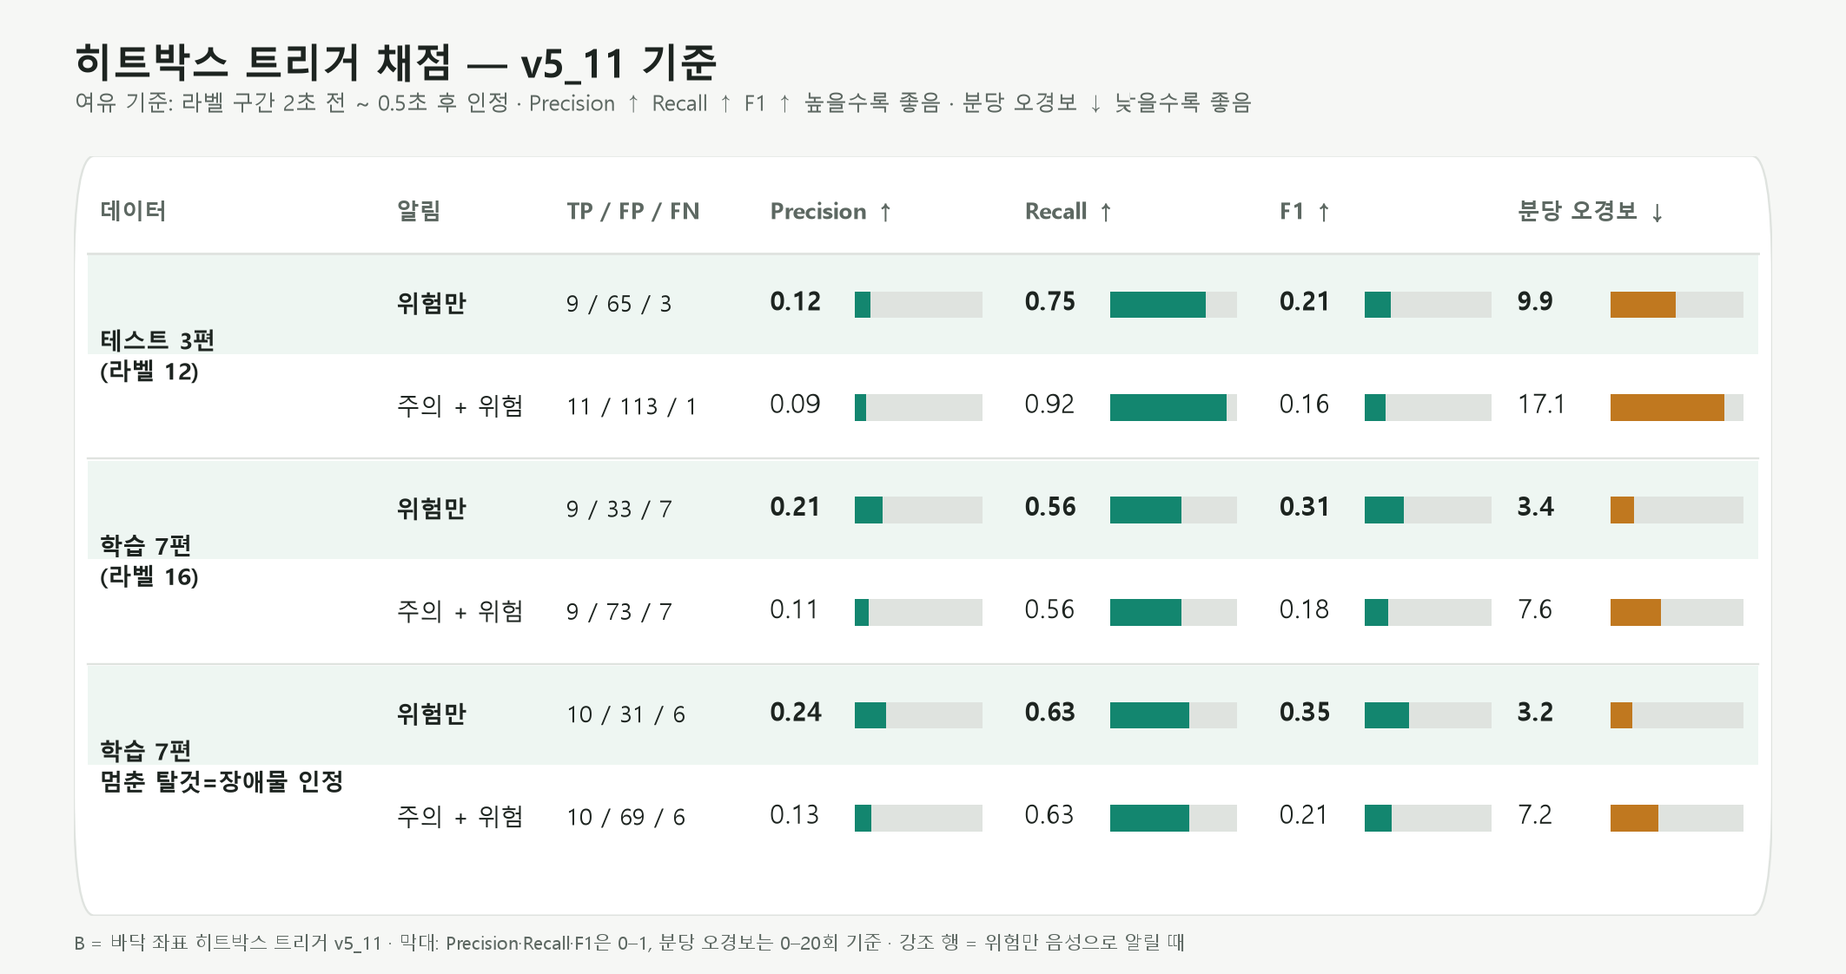
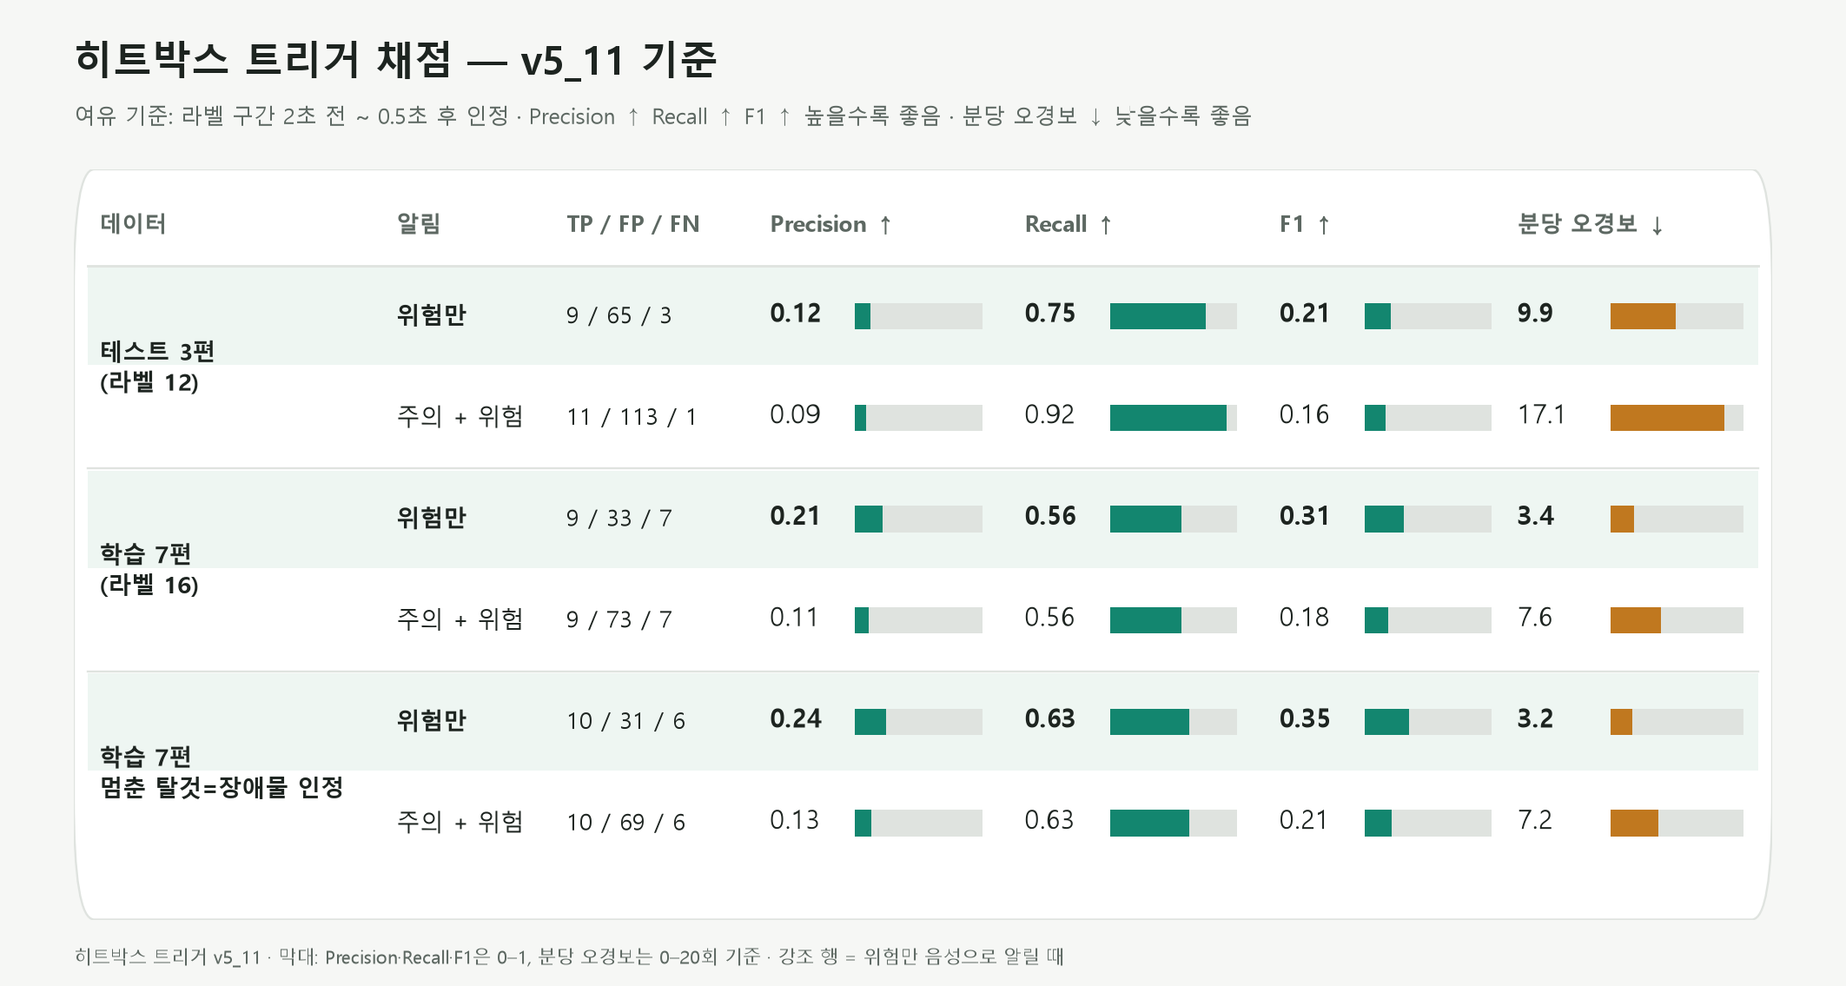
7주차: v5_10 기준 채점·속도표, v5_9–v5_11 비교 이미지 추가, 버전별 트리거 처리 시간 반영

diff --git a/trigger_hitbox/code/make_figs.py b/trigger_hitbox/code/make_figs.py
@@ -1,4 +1,7 @@
-"""v5_11 기준 표 이미지 2장: ① Precision · Recall · 분당 오경보 (태규 B0 제외) ② GPU 단독 vs CPU+GPU 모듈별 시간."""
+"""버전별 표 이미지: 채점표(v5_10 · v5_11) · GPU/CPU 속도표(v5_10 · v5_11) · v5_9–v5_11 비교표.
+값은 서버 실행 출력과 eval JSON에서 옮김 (태규 B0 제외)."""
+import os
+
 import matplotlib
 matplotlib.use("Agg")
 import matplotlib.pyplot as plt
@@ -8,129 +11,225 @@ from matplotlib.patches import FancyBboxPatch, Rectangle
 font_manager.fontManager.addfont("C:/Windows/Fonts/malgun.ttf")
 font_manager.fontManager.addfont("C:/Windows/Fonts/malgunbd.ttf")
 plt.rcParams["font.family"] = "Malgun Gothic"
-
-INK, MUTED, LINE, BG, PANEL = "#1d2420", "#5d6862", "#dfe3df", "#f6f7f5", "#ffffff"
-GPU, CPU, ACC_SOFT, HL = "#13866f", "#c0781f", "#e3efe9", "#eef6f2"
+INK, MUTED, LINE, BG, PANEL, HL = "#1d2420", "#5d6862", "#dfe3df", "#f6f7f5", "#ffffff", "#eef6f2"
+GPU, CPU, NEU = "#13866f", "#c0781f", "#8fa39b"
 OUT = "C:/Users/windo/Documents/trigger_proto/out/figs"
-import os
 os.makedirs(OUT, exist_ok=True)
+
+# 채점 (여유 기준): (TP/FP/FN, P, R, F1, 분당 오경보)
+SCORE = {
+    "v5_9": {"test": {"Bd": ("10 / 54 / 2", .156, .833, .263, 8.19), "B": ("11 / 96 / 1", .103, .917, .185, 14.55)},
+             "train": {"Bd": ("7 / 29 / 9", .194, .438, .269, 3.02), "B": ("7 / 65 / 9", .097, .438, .159, 6.77)}},
+    "v5_10": {"test": {"Bd": ("9 / 70 / 3", .114, .750, .198, 10.61), "B": ("10 / 124 / 2", .075, .833, .137, 18.80)},
+              "train": {"Bd": ("9 / 39 / 7", .188, .562, .281, 4.06), "B": ("10 / 81 / 6", .110, .625, .187, 8.44)}},
+    "v5_11": {"test": {"Bd": ("9 / 65 / 3", .122, .750, .209, 9.85), "B": ("11 / 113 / 1", .089, .917, .162, 17.13)},
+              "train": {"Bd": ("9 / 33 / 7", .214, .562, .310, 3.44), "B": ("9 / 73 / 7", .110, .562, .184, 7.60)},
+              "train_loose": {"Bd": ("10 / 31 / 6", .244, .625, .351, 3.23), "B": ("10 / 69 / 6", .127, .625, .211, 7.19)}},
+}
+TRIG = {"v5_9": (7.3, "측정 · test 1–3 평균"), "v5_10": (8.3, "측정 · test_2"), "v5_11": (8.3, "v5_10과 같은 로직 · 추정")}
+LEAD = {"v5_9": (-0.83, -1.40), "v5_10": (-0.53, 0.00), "v5_11": (-0.81, -1.13)}   # 위험만, 라벨 시작 − 첫 트리거 (s)
+BASE_GPU = 3.0 + 13.4 + 43.0 + 1.5 + 10.8     # 트리거 제외 (GPU 단독)
+BASE_CPU = 3.0 + 39.7 + 43.0 + 1.6 + 10.8     # 트리거 제외 (나눠 쓰기)
+
+
+def fr(v):
+    return f"{v + 1e-9:.1f}"
 
 
 def header(fig, title, sub):
-    fig.text(0.04, 0.955, title, fontsize=19, fontweight="bold", color=INK, va="top")
-    fig.text(0.04, 0.905, sub, fontsize=10.5, color=MUTED, va="top")
+    h = fig.get_figheight()             # 그림 높이와 상관없이 위에서 같은 거리 (인치)
+    fig.text(0.04, 1 - 0.28 / h, title, fontsize=19, fontweight="bold", color=INK, va="top")
+    fig.text(0.04, 1 - 0.72 / h, sub, fontsize=10.5, color=MUTED, va="top")
 
 
-# ---------------- ① 채점 표 ----------------
-rows = [  # (데이터, 알림, TP/FP/FN, P, R, F1, 분당 오경보, 강조)
-    ("테스트 3편\n(라벨 12)", "위험만", "9 / 65 / 3", 0.122, 0.750, 0.209, 9.85, True),
-    ("", "주의 + 위험", "11 / 113 / 1", 0.089, 0.917, 0.162, 17.13, False),
-    ("학습 7편\n(라벨 16)", "위험만", "9 / 33 / 7", 0.214, 0.562, 0.310, 3.44, True),
-    ("", "주의 + 위험", "9 / 73 / 7", 0.110, 0.562, 0.184, 7.60, False),
-    ("학습 7편\n멈춘 탈것=장애물 인정", "위험만", "10 / 31 / 6", 0.244, 0.625, 0.351, 3.23, True),
-    ("", "주의 + 위험", "10 / 69 / 6", 0.127, 0.625, 0.211, 7.19, False),
-]
-fig = plt.figure(figsize=(12.5, 6.6), dpi=170, facecolor=BG)
-header(fig, "히트박스 트리거 채점 — v5_11 기준",
-       "여유 기준: 라벨 구간 2초 전 ~ 0.5초 후 인정 · Precision ↑ Recall ↑ F1 ↑ 높을수록 좋음 · 분당 오경보 ↓ 낮을수록 좋음")
-ax = fig.add_axes([0.04, 0.06, 0.92, 0.78]); ax.set_xlim(0, 100); ax.set_ylim(0, len(rows) + 1.4); ax.axis("off")
-ax.add_patch(FancyBboxPatch((0, 0), 100, len(rows) + 1.4, boxstyle="round,pad=0,rounding_size=1.2", fc=PANEL, ec=LINE, lw=1))
-cols = [(1.5, "데이터"), (19, "알림"), (29, "TP / FP / FN"), (41, "Precision ↑"), (56, "Recall ↑"), (71, "F1 ↑"), (85, "분당 오경보 ↓")]
-ytop = len(rows) + 0.85
-for x, c in cols:
-    ax.text(x, ytop, c, fontsize=11, color=MUTED, va="center", fontweight="bold")
-ax.plot([0.8, 99.2], [ytop - 0.4] * 2, color=LINE, lw=1.2)
+def panel(fig, rect, h):
+    ax = fig.add_axes(rect); ax.set_xlim(0, 100); ax.set_ylim(0, h); ax.axis("off")
+    ax.add_patch(FancyBboxPatch((0, 0), 100, h, boxstyle="round,pad=0,rounding_size=1.2", fc=PANEL, ec=LINE, lw=1))
+    return ax
 
 
-def bar(x, y, v, vmax, w, color):
+def hbar(ax, x, y, v, vmax, w, color):
     ax.add_patch(Rectangle((x, y - 0.13), w, 0.26, fc=LINE, ec="none"))
-    ax.add_patch(Rectangle((x, y - 0.13), w * v / vmax, 0.26, fc=color, ec="none"))
+    ax.add_patch(Rectangle((x, y - 0.13), w * min(v, vmax) / vmax, 0.26, fc=color, ec="none"))
 
 
-for i, (d, a, n, p, r, f1, fpm, hl) in enumerate(rows):
-    y = len(rows) - i - 0.05
-    if hl:
-        ax.add_patch(Rectangle((0.8, y - 0.48), 98.4, 0.96, fc=HL, ec="none"))
-    if d:
-        ax.text(1.5, y - 0.5, d, fontsize=11.5, color=INK, va="center", fontweight="bold", linespacing=1.3)
-        if i:
-            ax.plot([0.8, 99.2], [y + 0.5] * 2, color=LINE, lw=1)
-    ax.text(19, y, a, fontsize=11.5, color=INK, va="center", fontweight="bold" if hl else "normal")
-    ax.text(29, y, n, fontsize=11.5, color=INK, va="center")
-    for x, v in ((41, p), (56, r), (71, f1)):
-        ax.text(x, y + 0.02, f"{v + 1e-9:.2f}", fontsize=12.5, color=INK, va="center", fontweight="bold" if hl else "normal")
-        bar(x + 5.0, y, v, 1.0, 7.5, GPU)
-    ax.text(85, y + 0.02, f"{fpm + 1e-9:.1f}", fontsize=12.5, color=INK, va="center", fontweight="bold" if hl else "normal")
-    bar(90.5, y, fpm, 20, 7.8, CPU)
-fig.text(0.04, 0.025, "B = 바닥 좌표 히트박스 트리거 v5_11 · 막대: Precision·Recall·F1은 0–1, 분당 오경보는 0–20회 기준 · 강조 행 = 위험만 음성으로 알릴 때",
-         fontsize=9, color=MUTED)
-fig.savefig(f"{OUT}/v5_11_채점표.png", facecolor=BG)
-plt.close(fig)
-
-# ---------------- ② GPU 단독 vs CPU+GPU ----------------
-frame = [  # 모듈, (GPU 단독 곳, ms), (나눠 쓰기 곳, ms)
-    ("프레임 읽기", ("CPU", 3.0), ("CPU", 3.0)),
-    ("YOLO 검출 + 추적", ("GPU", 13.4), ("CPU×8", 39.7)),
-    ("배경 광류 (걸음 속도 · 흔들림)", ("CPU", 43.0), ("CPU", 43.0)),
-    ("트리거 판단", ("CPU", 2.5), ("CPU", 2.5)),
-    ("신호 분류 (3프레임마다)", ("GPU", 1.5), ("CPU", 1.6)),
-    ("바닥 분할 (5프레임마다)", ("GPU", 10.8), ("GPU", 10.8)),
-]
-event = [
-    ("즉시 경고 (미리 합성한 조각 · 지금 방식)", "0.02 s", "0.05 s"),
-    ("VLM 설명 문장 (Qwen2.5-VL-7B)", "0.93 s", "0.85 s"),
-    ("TTS 합성 Supertonic (서버 CPU)", "1.34 s", "1.36 s"),
-    ("설명까지 합계 (VLM + Supertonic)", "2.27 s", "2.21 s"),
-    ("설명까지 합계 (VLM + Heami, 노트북)", "0.95 s", "0.87 s"),
-]
-fig = plt.figure(figsize=(12.5, 9.2), dpi=170, facecolor=BG)
-header(fig, "GPU 단독 vs CPU+GPU 나눠 쓰기 — 모듈별 시간 (v5_11 기준)",
-       "RunYourAI RTX A5000 · 중간값 · 나눠 쓰기 = VLM·바닥 분할만 GPU, YOLO·트리거·TTS는 CPU 8스레드(노트북급)")
-ax = fig.add_axes([0.04, 0.38, 0.92, 0.5]); ax.set_xlim(0, 100); ax.set_ylim(0, len(frame) + 2.4); ax.axis("off")
-ax.add_patch(FancyBboxPatch((0, 0), 100, len(frame) + 2.4, boxstyle="round,pad=0,rounding_size=1.2", fc=PANEL, ec=LINE, lw=1))
-ytop = len(frame) + 1.8
-ax.text(1.5, ytop, "A. 프레임마다 (ms / 프레임)", fontsize=12, color=INK, fontweight="bold", va="center")
-ax.text(33, ytop, "GPU 단독", fontsize=11, color=GPU, fontweight="bold", va="center")
-ax.text(66, ytop, "CPU+GPU 나눠 쓰기", fontsize=11, color=CPU, fontweight="bold", va="center")
-ax.plot([0.8, 99.2], [ytop - 0.5] * 2, color=LINE, lw=1.2)
-SC = 17 / 45.0      # 막대 길이: 45 ms = 17칸
+# ---------------- 채점표 ----------------
+def score_fig(ver):
+    S = SCORE[ver]
+    rows = [("테스트 3편\n(라벨 12)", S["test"]), ("학습 7편\n(라벨 16)", S["train"])]
+    if "train_loose" in S:
+        rows.append(("학습 7편\n멈춘 탈것=장애물 인정", S["train_loose"]))
+    lines = []
+    for name, d in rows:
+        lines.append((name, "위험만", *d["Bd"], True))
+        lines.append(("", "주의 + 위험", *d["B"], False))
+    H = len(lines) + 1.4
+    fig = plt.figure(figsize=(12.5, 2.0 + 0.78 * len(lines)), dpi=170, facecolor=BG)
+    header(fig, f"히트박스 트리거 채점 — {ver} 기준",
+           "여유 기준: 라벨 구간 2초 전 ~ 0.5초 후 인정 · Precision ↑ Recall ↑ F1 ↑ 높을수록 좋음 · 분당 오경보 ↓ 낮을수록 좋음")
+    hh = fig.get_figheight()
+    ax = panel(fig, [0.04, 0.45 / hh, 0.92, 1 - 0.45 / hh - 1.15 / hh], H)
+    cols = [(1.5, "데이터"), (19, "알림"), (29, "TP / FP / FN"), (41, "Precision ↑"), (56, "Recall ↑"), (71, "F1 ↑"), (85, "분당 오경보 ↓")]
+    yt = len(lines) + 0.85
+    for x, c in cols:
+        ax.text(x, yt, c, fontsize=11, color=MUTED, va="center", fontweight="bold")
+    ax.plot([0.8, 99.2], [yt - 0.4] * 2, color=LINE, lw=1.2)
+    for i, (d, a, n, p, r, f1, fpm, hl) in enumerate(lines):
+        y = len(lines) - i - 0.05
+        if hl:
+            ax.add_patch(Rectangle((0.8, y - 0.48), 98.4, 0.96, fc=HL, ec="none"))
+        if d:
+            ax.text(1.5, y - 0.5, d, fontsize=11.5, color=INK, va="center", fontweight="bold", linespacing=1.3)
+            if i:
+                ax.plot([0.8, 99.2], [y + 0.5] * 2, color=LINE, lw=1)
+        wt = "bold" if hl else "normal"
+        ax.text(19, y, a, fontsize=11.5, color=INK, va="center", fontweight=wt)
+        ax.text(29, y, n, fontsize=11.5, color=INK, va="center")
+        for x, v in ((41, p), (56, r), (71, f1)):
+            ax.text(x, y + 0.02, f"{v + 1e-9:.2f}", fontsize=12.5, color=INK, va="center", fontweight=wt)
+            hbar(ax, x + 5.0, y, v, 1.0, 7.5, GPU)
+        ax.text(85, y + 0.02, fr(fpm), fontsize=12.5, color=INK, va="center", fontweight=wt)
+        hbar(ax, 90.5, y, fpm, 20, 7.8, CPU)
+    fig.text(0.04, 0.15 / hh, f"히트박스 트리거 {ver} · 막대: Precision·Recall·F1은 0–1, 분당 오경보는 0–20회 기준 · 강조 행 = 위험만 음성으로 알릴 때",
+             fontsize=9, color=MUTED)
+    fig.savefig(f"{OUT}/{ver}_score.png", facecolor=BG)
+    plt.close(fig)
 
 
-def cell(x, y, where, ms, color):
-    ax.text(x, y, where, fontsize=9.5, color=MUTED, va="center")
-    bx = x + 8.5
-    ax.add_patch(Rectangle((bx, y - 0.17), ms * SC, 0.34, fc=color, ec="none", alpha=0.9))
-    ax.text(bx + ms * SC + 0.8, y, f"{ms:.1f}", fontsize=11.5, color=INK, va="center", fontweight="bold")
+# ---------------- 속도표 ----------------
+def speed_fig(ver):
+    trig, note = TRIG[ver]
+    frame = [("프레임 읽기", ("CPU", 3.0), ("CPU", 3.0)),
+             ("YOLO 검출 + 추적", ("GPU", 13.4), ("CPU×8", 39.7)),
+             ("배경 광류 (걸음 속도 · 흔들림)", ("CPU", 43.0), ("CPU", 43.0)),
+             (f"트리거 판단 ({note})", ("CPU", trig), ("CPU", trig)),
+             ("신호 분류 (3프레임마다)", ("GPU", 1.5), ("CPU", 1.6)),
+             ("바닥 분할 (5프레임마다)", ("GPU", 10.8), ("GPU", 10.8))]
+    tg, tc = BASE_GPU + trig, BASE_CPU + trig
+    event = [("즉시 경고 (미리 합성한 조각 · 지금 방식)", "0.02 s", "0.05 s"),
+             ("VLM 설명 문장 (Qwen2.5-VL-7B)", "0.93 s", "0.85 s"),
+             ("TTS 합성 Supertonic (서버 CPU)", "1.34 s", "1.36 s"),
+             ("설명까지 합계 (VLM + Supertonic)", "2.27 s", "2.21 s"),
+             ("설명까지 합계 (VLM + Heami, 노트북)", "0.95 s", "0.87 s")]
+    fig = plt.figure(figsize=(12.5, 9.2), dpi=170, facecolor=BG)
+    header(fig, f"GPU 단독 vs CPU+GPU 나눠 쓰기 — 모듈별 시간 ({ver} 기준)",
+           "RunYourAI RTX A5000 · 중간값 · 나눠 쓰기 = VLM·바닥 분할만 GPU, YOLO·트리거·TTS는 CPU 8스레드(노트북급)")
+    ax = panel(fig, [0.04, 0.38, 0.92, 0.5], len(frame) + 2.4)
+    yt = len(frame) + 1.8
+    ax.text(1.5, yt, "A. 프레임마다 (ms / 프레임)", fontsize=12, color=INK, fontweight="bold", va="center")
+    ax.text(36, yt, "GPU 단독", fontsize=11, color=GPU, fontweight="bold", va="center")
+    ax.text(68, yt, "CPU+GPU 나눠 쓰기", fontsize=11, color=CPU, fontweight="bold", va="center")
+    ax.plot([0.8, 99.2], [yt - 0.5] * 2, color=LINE, lw=1.2)
+    sc = 16 / 45.0
+
+    def cell(x, y, where, ms, color):
+        ax.text(x, y, where, fontsize=9.5, color=MUTED, va="center")
+        bx = x + 7.5
+        ax.add_patch(Rectangle((bx, y - 0.17), ms * sc, 0.34, fc=color, ec="none", alpha=0.9))
+        ax.text(bx + ms * sc + 0.8, y, fr(ms), fontsize=11.5, color=INK, va="center", fontweight="bold")
+    for i, (name, g, c) in enumerate(frame):
+        y = len(frame) - i + 0.6
+        ax.text(1.5, y, name, fontsize=11 if len(name) > 22 else 11.5, color=INK, va="center")
+        cell(36, y, g[0], g[1], GPU if g[0] == "GPU" else NEU)
+        cell(68, y, c[0], c[1], CPU if c[0] != "GPU" else NEU)
+    ax.plot([0.8, 99.2], [0.95] * 2, color=LINE, lw=1.2)
+    ax.add_patch(Rectangle((0.8, 0.05), 98.4, 0.85, fc=HL, ec="none"))
+    ax.text(1.5, 0.48, "합계  (처리 가능 속도)", fontsize=12.5, color=INK, fontweight="bold", va="center")
+    ax.text(36, 0.48, f"{fr(tg)} ms  (약 {1000 / tg:.1f} fps)", fontsize=13, color=GPU, fontweight="bold", va="center")
+    ax.text(68, 0.48, f"{fr(tc)} ms  (약 {1000 / tc:.1f} fps)", fontsize=13, color=CPU, fontweight="bold", va="center")
+    ax2 = panel(fig, [0.04, 0.06, 0.92, 0.29], len(event) + 1.4)
+    yt = len(event) + 0.85
+    ax2.text(1.5, yt, "B. 경고 한 번 (트리거 → 소리)", fontsize=12, color=INK, fontweight="bold", va="center")
+    ax2.text(60, yt, "GPU 단독", fontsize=11, color=GPU, fontweight="bold", va="center")
+    ax2.text(80, yt, "나눠 쓰기", fontsize=11, color=CPU, fontweight="bold", va="center")
+    ax2.plot([0.8, 99.2], [yt - 0.45] * 2, color=LINE, lw=1.2)
+    for i, (name, g, c) in enumerate(event):
+        y = len(event) - i - 0.1
+        hl = name.startswith("설명까지 합계 (VLM + Supertonic")
+        if hl:
+            ax2.add_patch(Rectangle((0.8, y - 0.45), 98.4, 0.9, fc=HL, ec="none"))
+        wt = "bold" if hl or i == 0 else "normal"
+        ax2.text(1.5, y, name, fontsize=11.5, color=INK, va="center", fontweight="bold" if hl else "normal")
+        ax2.text(60, y, g, fontsize=12, color=INK, va="center", fontweight=wt)
+        ax2.text(80, y, c, fontsize=12, color=INK, va="center", fontweight=wt)
+    fig.text(0.04, 0.022, f"나눠 써도 즉시 경고는 +0.03초뿐 · YOLO를 CPU로 옮기면 프레임당 +26 ms · 가장 큰 비용은 원래 CPU인 배경 광류 · 모듈을 순서대로 돌린 합계",
+             fontsize=9, color=MUTED)
+    fig.savefig(f"{OUT}/{ver}_speed.png", facecolor=BG)
+    plt.close(fig)
 
 
-for i, (name, g, c) in enumerate(frame):
-    y = len(frame) - i + 0.6
-    ax.text(1.5, y, name, fontsize=11.5, color=INK, va="center")
-    cell(33, y, g[0], g[1], GPU if g[0] == "GPU" else "#8fa39b")
-    cell(66, y, c[0], c[1], CPU if c[0] != "GPU" else "#8fa39b")
-ax.plot([0.8, 99.2], [0.95] * 2, color=LINE, lw=1.2)
-ax.add_patch(Rectangle((0.8, 0.05), 98.4, 0.85, fc=HL, ec="none"))
-ax.text(1.5, 0.48, "합계  (처리 가능 속도)", fontsize=12.5, color=INK, fontweight="bold", va="center")
-ax.text(33, 0.48, "74.2 ms  (약 13 fps)", fontsize=13, color=GPU, fontweight="bold", va="center")
-ax.text(66, 0.48, "100.6 ms  (약 10 fps)", fontsize=13, color=CPU, fontweight="bold", va="center")
+# ---------------- v5_9 – v5_11 비교 (기준 설정 · 성능 · 처리 속도) ----------------
+def compare_fig():
+    vers = ["v5_9", "v5_10", "v5_11"]
+    secs = [
+        ("기준 설정", [
+            ("영역 길이 (걸음 몇 초 앞)", ["4초", "5.5초", "4초"]),
+            ("위험: 내 몸 폭 안 도달", ["3초", "4초", "3초"]),
+            ("위험: 움직이는 물체 진입", ["2.5초", "3.5초", "2.5초"]),
+            ('"멈추세요" 거리', ["2.5 m", "3.5 m", "2.5 m"]),
+            ("판정 시작 대기", ["0.4초", "0.25초", "0.25초"]),
+            ("켜짐 지연", ["0.2초", "0.1초", "0.1초"]),
+            ("다가옴 확정", ["0.3초", "0.2초", "0.2초"]),
+            ("경고 묶음", ["1.0초", "0.5초", "0.5초"]),
+            ("고개 돌림 처리", ["없음", "0.7초 · 위험까지 보류", "0.4초 · 주의만 보류"]),
+        ]),
+        ("성능 (여유 기준 · 위험만 알림)", [
+            ("테스트 Precision ↑", [f"{SCORE[v]['test']['Bd'][1]:.2f}" for v in vers]),
+            ("테스트 Recall ↑", [f"{SCORE[v]['test']['Bd'][2]:.2f}" for v in vers]),
+            ("테스트 분당 오경보 ↓", [fr(SCORE[v]['test']['Bd'][4]) for v in vers]),
+            ("학습 Precision ↑", [f"{SCORE[v]['train']['Bd'][1]:.2f}" for v in vers]),
+            ("학습 Recall ↑", [f"{SCORE[v]['train']['Bd'][2]:.2f}" for v in vers]),
+            ("학습 분당 오경보 ↓", [fr(SCORE[v]['train']['Bd'][4]) for v in vers]),
+            ("경고 시점 · 테스트 (라벨 시작 대비)", [f"{(-LEAD[v][0]) + 0.0:+.2f} s".replace("-0.00", "0.00").replace("+0.00", "0.00") for v in vers]),
+            ("경고 시점 · 학습 (라벨 시작 대비)", [f"{(-LEAD[v][1]) + 0.0:+.2f} s".replace("-0.00", "0.00").replace("+0.00", "0.00") for v in vers]),
+        ]),
+        ("처리 속도 (RunYourAI RTX A5000, 중간값)", [
+            ("트리거 판단 (ms / 프레임)", [fr(TRIG[v][0]) + (" *" if v == "v5_11" else "") for v in vers]),
+            ("프레임 합계 · GPU 단독", [f"{fr(BASE_GPU + TRIG[v][0])} ms ({1000 / (BASE_GPU + TRIG[v][0]):.1f} fps)" for v in vers]),
+            ("프레임 합계 · CPU+GPU 나눠 쓰기", [f"{fr(BASE_CPU + TRIG[v][0])} ms ({1000 / (BASE_CPU + TRIG[v][0]):.1f} fps)" for v in vers]),
+            ("즉시 경고 지연 (트리거 → 소리)", ["0.02 s", "0.02 s", "0.02 s *"]),
+        ]),
+    ]
+    # 성능 줄에서 가장 좋은 값 굵게
+    better = {"Precision ↑": max, "Recall ↑": max, "오경보 ↓": min}
+    n = sum(len(r) for _, r in secs) + len(secs)
+    fig = plt.figure(figsize=(13, 0.43 * n + 2.2), dpi=170, facecolor=BG)
+    header(fig, "버전 비교 — v5_9 / v5_10 / v5_11",
+           "v5_10 = 경고 1–2초 앞당김 (영상으로 보니 너무 일찍 울림) · v5_11 = 거리·시간 기준은 v5_9로 되돌리고 판정 대기만 줄여 0.3–0.5초 앞당김")
+    H = n + 1.2
+    ax = panel(fig, [0.04, 0.05, 0.92, 1 - 0.05 - (1.5 / (0.43 * n + 2.2))], H)
+    X = (40, 61, 82)
+    yt = H - 0.6
+    ax.text(1.5, yt, "항목", fontsize=11.5, color=MUTED, fontweight="bold", va="center")
+    for x, v in zip(X, vers):
+        ax.text(x, yt, v + ("  (이번)" if v == "v5_11" else ""), fontsize=12, color=GPU if v == "v5_11" else MUTED,
+                fontweight="bold", va="center")
+    ax.add_patch(Rectangle((79.5, 0.2), 19.7, H - 0.6, fc=HL, ec="none"))      # v5_11 열 강조
+    y = yt - 1.0
+    for title, rows in secs:
+        ax.plot([0.8, 99.2], [y + 0.5] * 2, color=LINE, lw=1.2)
+        ax.text(1.5, y, title, fontsize=12, color=INK, fontweight="bold", va="center")
+        y -= 1.0
+        for name, vals in rows:
+            ax.text(3.0, y, name, fontsize=11.2, color=INK, va="center")
+            pick = next((f for k_, f in better.items() if name.endswith(k_)), None)
+            best = None
+            if pick:
+                nums = [float(v.split()[0]) for v in vals]
+                best = pick(nums)
+            for x, v in zip(X, vals):
+                bold = best is not None and float(v.split()[0]) == best
+                ax.text(x, y, v, fontsize=11.5, color=INK, va="center", fontweight="bold" if bold else "normal")
+            y -= 1.0
+    fig.text(0.04, 0.015, "굵게 = 세 버전 중 가장 좋은 값 · 경고 시점: + 는 라벨 시작보다 늦게, - 는 먼저 (중간값) · "
+             "* v5_11은 서버 반납으로 직접 못 재서 같은 로직인 v5_10 값 · 프레임 합계 = 모듈을 순서대로 돌린 값",
+             fontsize=8.8, color=MUTED)
+    fig.savefig(f"{OUT}/compare_v5_9_v5_10_v5_11.png", facecolor=BG)
+    plt.close(fig)
 
-ax2 = fig.add_axes([0.04, 0.06, 0.92, 0.29]); ax2.set_xlim(0, 100); ax2.set_ylim(0, len(event) + 1.4); ax2.axis("off")
-ax2.add_patch(FancyBboxPatch((0, 0), 100, len(event) + 1.4, boxstyle="round,pad=0,rounding_size=1.2", fc=PANEL, ec=LINE, lw=1))
-ytop = len(event) + 0.85
-ax2.text(1.5, ytop, "B. 경고 한 번 (트리거 → 소리)", fontsize=12, color=INK, fontweight="bold", va="center")
-ax2.text(60, ytop, "GPU 단독", fontsize=11, color=GPU, fontweight="bold", va="center")
-ax2.text(80, ytop, "나눠 쓰기", fontsize=11, color=CPU, fontweight="bold", va="center")
-ax2.plot([0.8, 99.2], [ytop - 0.45] * 2, color=LINE, lw=1.2)
-for i, (name, g, c) in enumerate(event):
-    y = len(event) - i - 0.1
-    hl = name.startswith("설명까지 합계 (VLM + Supertonic")
-    if hl:
-        ax2.add_patch(Rectangle((0.8, y - 0.45), 98.4, 0.9, fc=HL, ec="none"))
-    ax2.text(1.5, y, name, fontsize=11.5, color=INK, va="center", fontweight="bold" if hl else "normal")
-    ax2.text(60, y, g, fontsize=12, color=INK, va="center", fontweight="bold" if hl or i == 0 else "normal")
-    ax2.text(80, y, c, fontsize=12, color=INK, va="center", fontweight="bold" if hl or i == 0 else "normal")
-fig.text(0.04, 0.022, "나눠 써도 즉시 경고는 +0.03초뿐 · YOLO를 CPU로 옮기면 프레임당 +26 ms (13 → 10 fps) · 가장 큰 비용은 원래 CPU인 배경 광류 · 모듈을 순서대로 돌린 합계",
-         fontsize=9, color=MUTED)
-fig.savefig(f"{OUT}/v5_11_GPU_CPU_속도비교.png", facecolor=BG)
-plt.close(fig)
+
+for v in ("v5_10", "v5_11"):
+    score_fig(v)
+    speed_fig(v)
+compare_fig()
 print("saved")

diff --git a/README.md b/README.md
@@ -49,6 +49,8 @@
 
 (위 B 행은 v5_9. v5_11 테스트는 Precision 0.12 · Recall 0.75 · 분당 9.9 — [상세](trigger_hitbox/README.md#3-1-v5_10--v5_11-채점))
 
+![](trigger_hitbox/img/compare_v5_9_v5_10_v5_11.png)
+
 ![](trigger_hitbox/img/v5_11_score.png)
 
 ![](trigger_hitbox/img/v5_11_speed.png)
